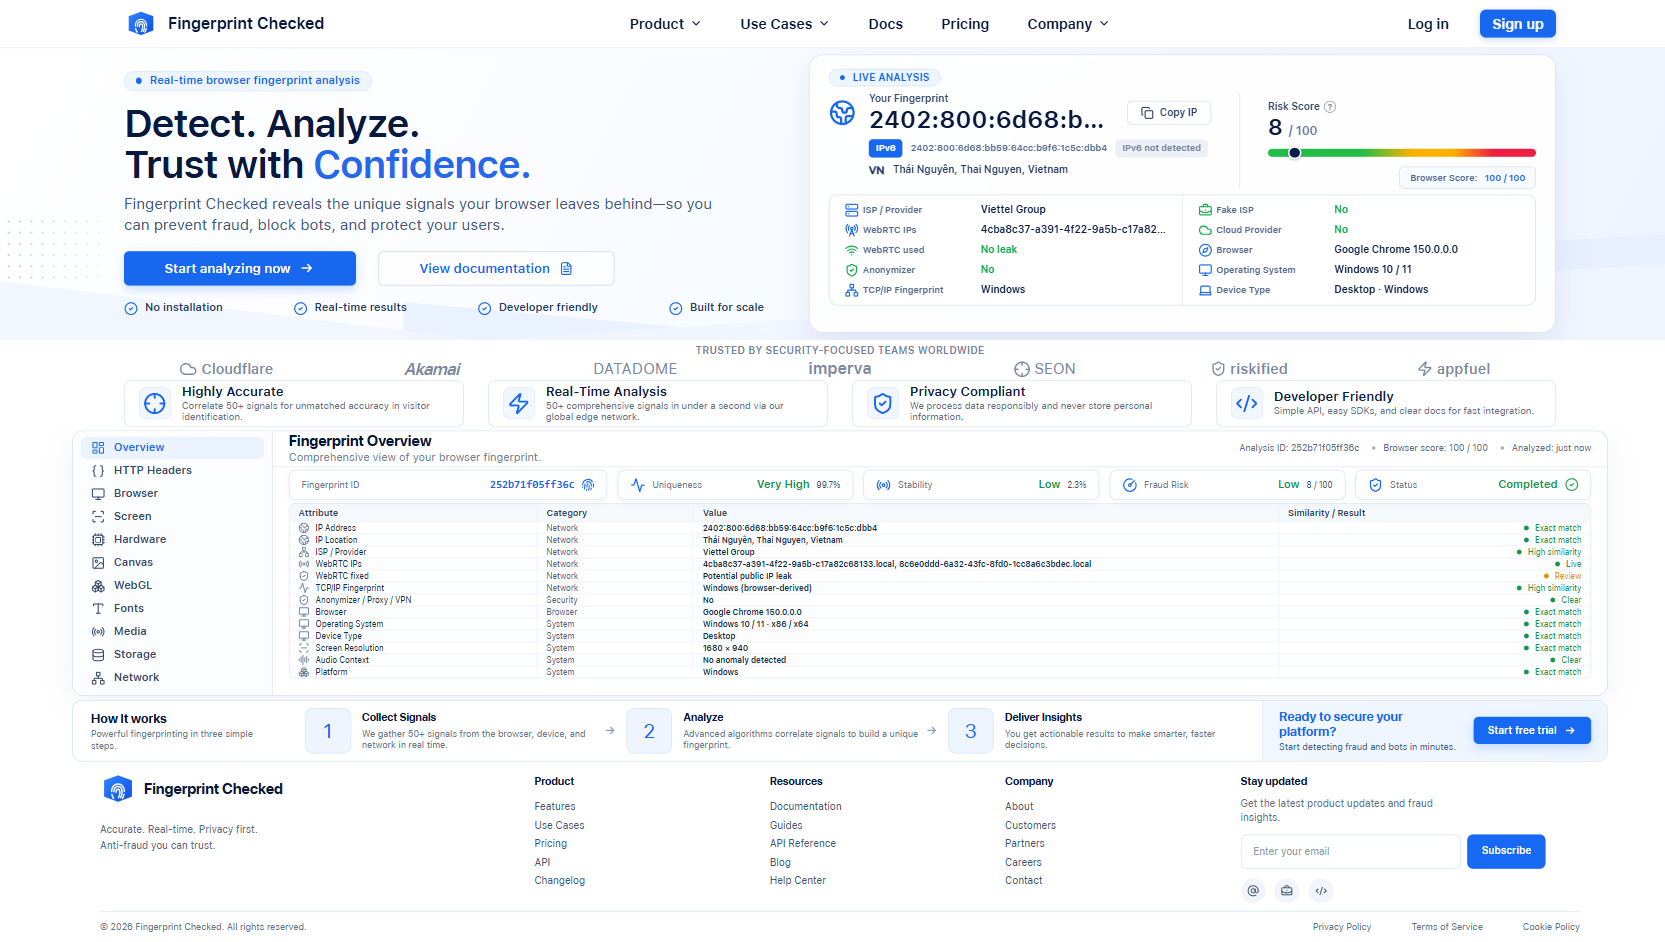
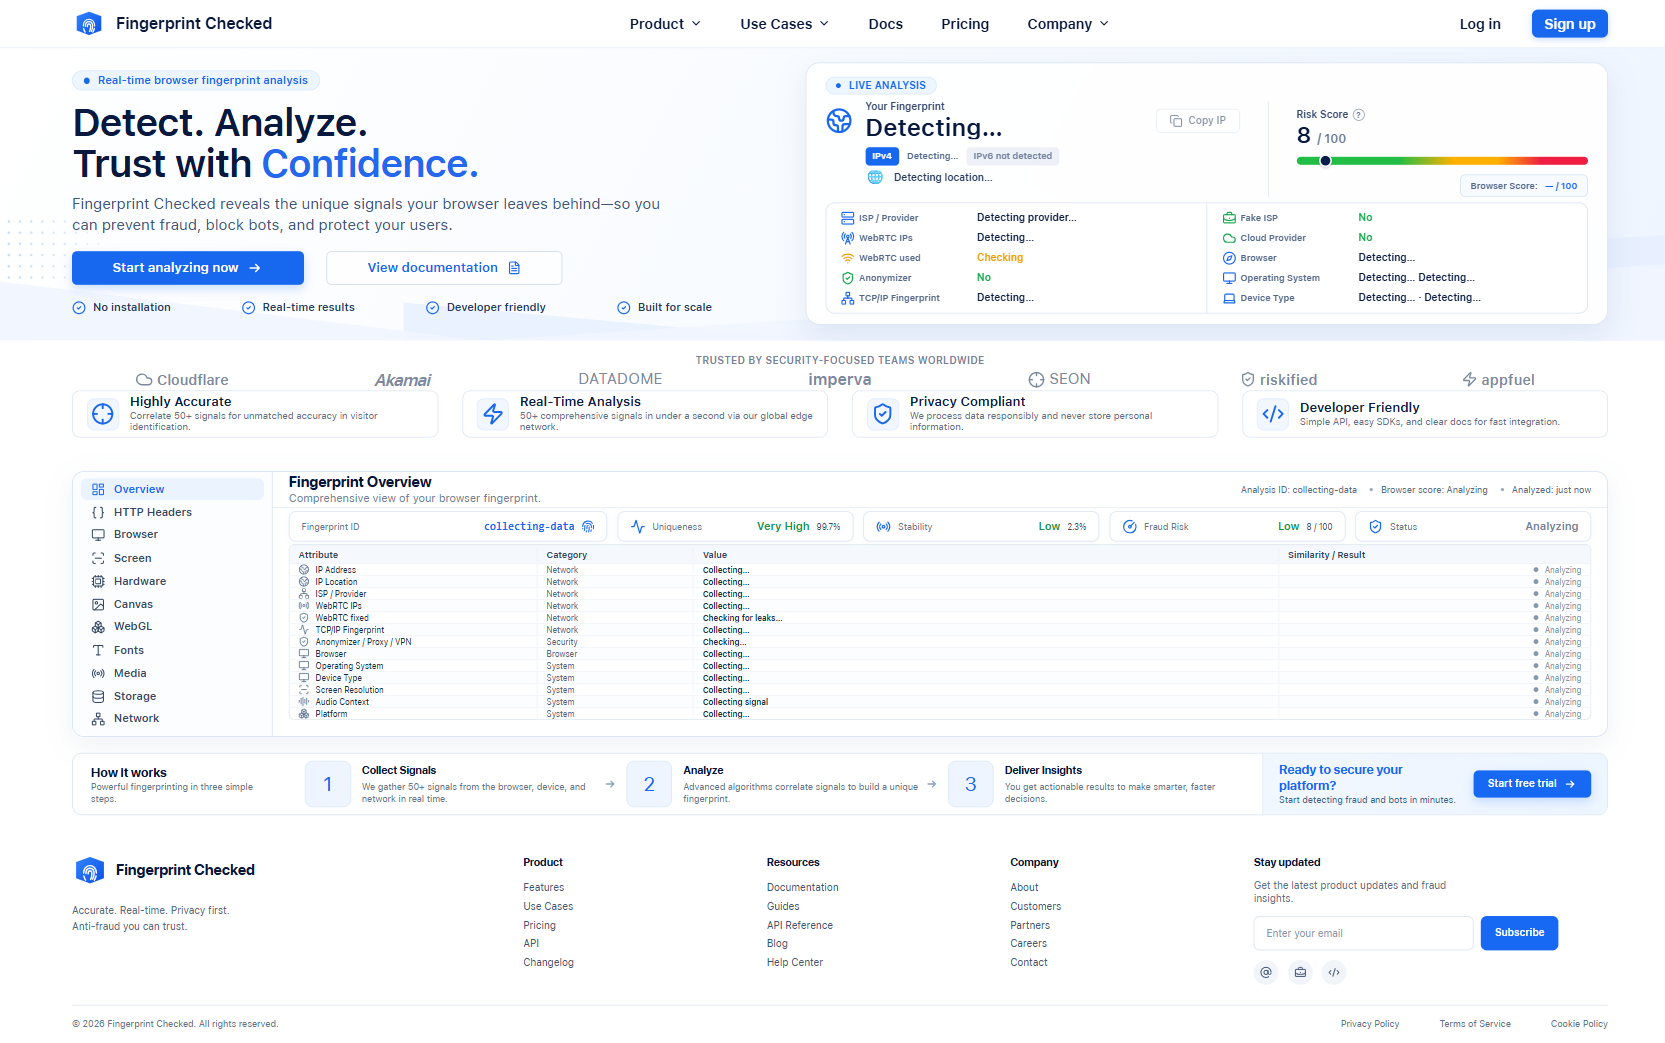
style: balance landing page spacing

diff --git a/src/components/landing/overview-footer.module.css b/src/components/landing/overview-footer.module.css
@@ -3,7 +3,7 @@
   grid-template-columns: 200px minmax(0, 1fr);
   width: min(1536px, calc(100% - 48px));
   min-height: 264px;
-  margin: 0 auto;
+  margin: 20px auto 0;
   overflow: hidden;
   background: #fff;
   border: 1px solid #d5e1f0;
@@ -274,7 +274,7 @@
   align-items: stretch;
   width: min(1536px, calc(100% - 48px));
   min-height: 62px;
-  margin: 4px auto 0;
+  margin: 16px auto 0;
   overflow: hidden;
   border: 1px solid #d8e3f0;
   border-radius: 10px;
@@ -401,12 +401,12 @@
 }
 
 .footer {
-  margin-top: 2px;
+  margin-top: 22px;
   background: #fff;
 }
 
 .footerInner {
-  width: min(1480px, calc(100% - 72px));
+  width: min(1536px, calc(100% - 48px));
   margin: 0 auto;
 }
 
@@ -414,7 +414,7 @@
   display: grid;
   grid-template-columns: 1.65fr repeat(3, 0.8fr) 1.45fr;
   gap: 48px;
-  padding: 10px 0 8px;
+  padding: 18px 0 20px;
 }
 
 .footerBrand > a {
@@ -545,7 +545,7 @@
   display: flex;
   align-items: center;
   justify-content: space-between;
-  min-height: 30px;
+  min-height: 38px;
   gap: 24px;
   color: #62728a;
   border-top: 1px solid #dde6f1;
@@ -725,7 +725,7 @@
   }
 
   .footerInner {
-    width: min(100% - 28px, 1480px);
+    width: min(100% - 28px, 1536px);
   }
 
   .legal,

diff --git a/src/components/landing/header-hero.module.css b/src/components/landing/header-hero.module.css
@@ -11,11 +11,11 @@
   display: grid;
   grid-template-columns: 270px 1fr 210px;
   align-items: center;
-  width: 100%;
-  max-width: 1480px;
+  width: min(1536px, calc(100% - 48px));
+  max-width: none;
   height: 47px;
   margin: 0 auto;
-  padding: 0 24px;
+  padding: 0;
 }
 
 .brand {
@@ -212,11 +212,11 @@
   grid-template-columns: minmax(0, 0.93fr) minmax(660px, 1.07fr);
   align-items: center;
   gap: 36px;
-  width: 100%;
-  max-width: 1480px;
+  width: min(1536px, calc(100% - 48px));
+  max-width: none;
   min-height: 292px;
   margin: 0 auto;
-  padding: 6px 24px 7px;
+  padding: 14px 0 16px;
 }
 
 .heroCopy {
@@ -658,10 +658,10 @@
 }
 
 .trustInner {
-  width: 100%;
-  max-width: 1480px;
+  width: min(1536px, calc(100% - 48px));
+  max-width: none;
   margin: 0 auto;
-  padding: 2px 24px 3px;
+  padding: 12px 0 14px;
 }
 
 .trustInner > h2 {
@@ -1025,6 +1025,7 @@
   .mobilePanel nav,
   .heroInner,
   .trustInner {
+    width: 100%;
     padding-right: 16px;
     padding-left: 16px;
   }
